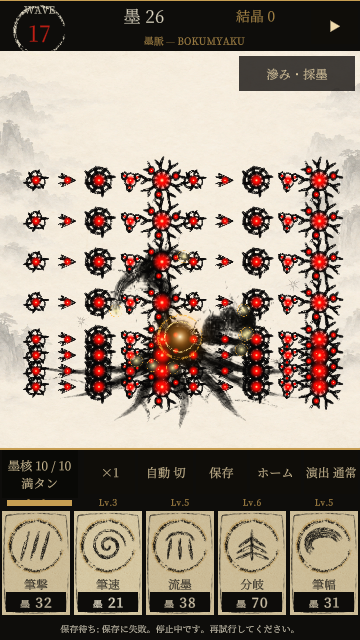
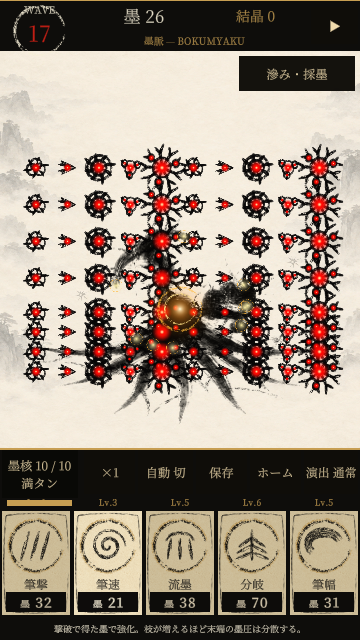
Give lower battlefield more space with aligned ink projection

Changed region(s): [[0.0611, 0.2188, 0.9472, 0.6562], [0.1528, 0.7812, 0.825, 1.0], [0.6417, 0.0625, 1.0, 0.1562]]

diff --git a/UnitySandbox/Assets/BokumyakuPrototype/Presentation/InkBattleWorld.cs b/UnitySandbox/Assets/BokumyakuPrototype/Presentation/InkBattleWorld.cs
@@ -47,7 +47,8 @@ namespace Bokumyaku.Presentation
    var p=Project(center);p.y=(top.y+bottom.y)*.5f;
    Size(renderer,p,radius*2/80f*1.23f,(top.y-bottom.y)*1.23f);
   }
-  Vector2 Project(Vector2 p){float t=.5f-p.y*.48f/512f;t=t<=.5f?t*1.44f:.72f+(t-.5f)*.56f;return new Vector2(p.x/400f*5,(.5f-t)*halfHeight*2);}
+  const float CoreScreenDepth=.65f;
+  Vector2 Project(Vector2 p){float t=.5f-p.y*.48f/512f;t=t<=.5f?t*(2*CoreScreenDepth):CoreScreenDepth+(t-.5f)*(2*(1-CoreScreenDepth));return new Vector2(p.x/400f*5,(.5f-t)*halfHeight*2);}
   void Properties(SpriteRenderer r,float hit,float dissolve,float wobble,float phase,bool reduced){block.Clear();block.SetFloat("_Hit",hit);block.SetFloat("_Dissolve",dissolve);block.SetFloat("_Wobble",wobble);block.SetFloat("_Phase",phase);block.SetFloat("_ReducedMotion",reduced?1:0);r.SetPropertyBlock(block);}
   void Release(SpriteRenderer r){r.gameObject.SetActive(false);r.SetPropertyBlock(null);r.transform.localRotation=Quaternion.identity;pool.Push(r);}
   SpriteRenderer Rent(Sprite s,int order){var r=pool.Count>0?pool.Pop():Create(s,order);r.sprite=s;r.enabled=true;r.sortingOrder=order;r.color=Color.white;r.gameObject.SetActive(true);return r;}
@@ -137,7 +138,7 @@ namespace Bokumyaku.Presentation
     if(upperInk.sprite!=null){ownedSprites.Remove(upperInk.sprite);UnityEngine.Object.Destroy(upperInk.sprite);ownedSprites.Remove(lowerInk.sprite);UnityEngine.Object.Destroy(lowerInk.sprite);}
     boundInk=persistent;upperInk.sprite=MakeSprite(persistent,new Rect(0,persistent.height/2,persistent.width,persistent.height/2));lowerInk.sprite=MakeSprite(persistent,new Rect(0,0,persistent.width,persistent.height/2));
    }
-   upperInk.color=lowerInk.color=new Color(.035f,.03f,.025f);Size(upperInk,new Vector2(0,halfHeight*.28f),10,halfHeight*1.44f);Size(lowerInk,new Vector2(0,-halfHeight*.72f),10,halfHeight*.56f);
+   upperInk.color=lowerInk.color=new Color(.035f,.03f,.025f);Size(upperInk,new Vector2(0,halfHeight*(1-CoreScreenDepth)),10,halfHeight*2*CoreScreenDepth);Size(lowerInk,new Vector2(0,-halfHeight*CoreScreenDepth),10,halfHeight*2*(1-CoreScreenDepth));
    var center=Project(Vector2.zero);Size(coreGlow,center,2.5f,2.5f);Size(core,center,1.05f,1.05f);Size(coreHeart,center,.72f,.72f);Size(coreOrbit,center,1.5f,1.5f);coreOrbit.transform.localRotation=Quaternion.Euler(0,0,31);
    var branches=run.Branches;while(tips.Count<branches.Count){tips.Add(Create(halo,7));tipRings.Add(Create(ring,8));}for(int i=0;i<tips.Count;i++){bool enabled=i<branches.Count&&branches[i].IsTip;tips[i].enabled=enabled;tipRings[i].enabled=enabled;if(enabled){var b=branches[i];Size(tips[i],Project(new Vector2((float)b.X,(float)b.Y)),.6f,.6f);tips[i].color=new Color(1,.94f,.65f,1);Size(tipRings[i],Project(new Vector2((float)b.X,(float)b.Y)),.43f,.43f);tipRings[i].color=new Color(1,.72f,.24f);}}
    // The first render after a fast-forward QA or loaded run also gets current actors.

diff --git a/scripts/UnityAutomation~/ProjectionCheck.cs b/scripts/UnityAutomation~/ProjectionCheck.cs
@@ -1,0 +1,2 @@
+using System;using System.IO;using System.Reflection;using UnityEngine;using Bokumyaku.Presentation;
+public static class ProjectionCheck{public static object Run(){var g=UnityEngine.Object.FindFirstObjectByType<BokumyakuGame>();if(!g.SavePath.Contains("ink-qa-"))throw new Exception("Isolated only");var f=BindingFlags.Instance|BindingFlags.NonPublic;var w=typeof(BokumyakuGame).GetField("battleWorld",f).GetValue(g);var type=w.GetType();var method=type.GetMethod("Project",f);float max=0;int samples=0;foreach(float x in new[]{-300f,0f,300f})foreach(float y in new[]{-300f,-1f,0f,1f,300f}){var projected=(Vector2)method.Invoke(w,new object[]{new Vector2(x,y)});var sprite=(SpriteRenderer)type.GetField(y>=0?"upperInk":"lowerInk",f).GetValue(w);float u=(192+x*.48f)/384;float v=(256+y*.48f)/256-(y>=0?1:0);var bounds=sprite.sprite.bounds;var local=sprite.transform.localPosition+Vector3.Scale(new Vector3((u-.5f)*bounds.size.x,(v-.5f)*bounds.size.y),sprite.transform.localScale);max=Mathf.Max(max,Vector2.Distance(projected,local));samples++;}if(max>.0001f)throw new Exception("Ink projection misaligned: "+max);var result=new{passed=true,samples,maxWorldError=max};File.WriteAllText(Path.GetFullPath("../docs/evidence/ink-projection-check.json"),Newtonsoft.Json.JsonConvert.SerializeObject(result));return result;}}

diff --git a/docs/STATE.md b/docs/STATE.md
@@ -19,5 +19,5 @@
 
 ## 次の一手
 1. v4クリーンビルドで警告解消、別プロセス復帰600tick一致。173ファイル中171はv3同一、boot.config/resources.assets差分。画面目視とリソース確認を次に実施。
-2. 人工80体の5種表示を確認、20回の描画呼び出しでRenderer316固定。下側の圧縮で重なりが強く判読性改善が必要（dense-battle-check.json/png）。同tick生成→撃破の分裂子の演出欠落が独立QA残件。シミュレーション変更禁止の範囲内で対応を検討。時計修正の次回ビルド、配布画面、美術/メニュー移行を継続。
+2. 人工80体の5種表示を確認、20回の描画呼び出しでRenderer316固定。核位置72→65%で下側間隔25%拡大、15点の墨/敵座標一致を確認。密集の重なりは残る（dense-battle-check.json/png）。同tick生成→撃破の分裂子の演出欠落が独立QA残件。シミュレーション変更禁止の範囲内で対応を検討。時計修正の次回ビルド、配布画面、美術/メニュー移行を継続。
 3. 音の聴感、初週バランス、スマホ実機は未達。PRODUCT_COMPLETION.md。リポジトリ分割は計画のみ。

diff --git a/docs/RENDER_REFRESH.md b/docs/RENDER_REFRESH.md
@@ -89,3 +89,6 @@ Fiberの広い掠れ層を残し、同じ曲線へ半径10のPool層を追加。
 
 ### 密集人工配置と同tick撃破の調査
 80体/5種を隔離状態で格子配置し、描画20呼び出しでRenderer316→316。自然Wave・経済・性能の証拠ではない。画面下側の座標圧縮で輪郭重なりが強いため改善対象。dense-battle-check.json/png。AttackEventはフィールド撃破の一覧を持たず、同tick消失子を描画だけで正確に復元できない。シミュレーション変更禁止を維持し、演出欠落は未解決とする。
+
+### 下側の描画間隔
+核位置を戦場上から72→65%へ変更し、下側の投影係数.56→.70（間隔25%増）。上側/下側の墨スプライト配置も共通CoreScreenDepthから計算。人工80体画像を比較、Renderer316固定。15点で墨面/Project一致、最大誤差2.38e-7 world units。dense-battle-before-spacing.pngとdense-battle-check.png、ink-projection-check.json。シミュレーション/射程/保存未変更。密集の完全な判読性や実機性能の合格ではない。
